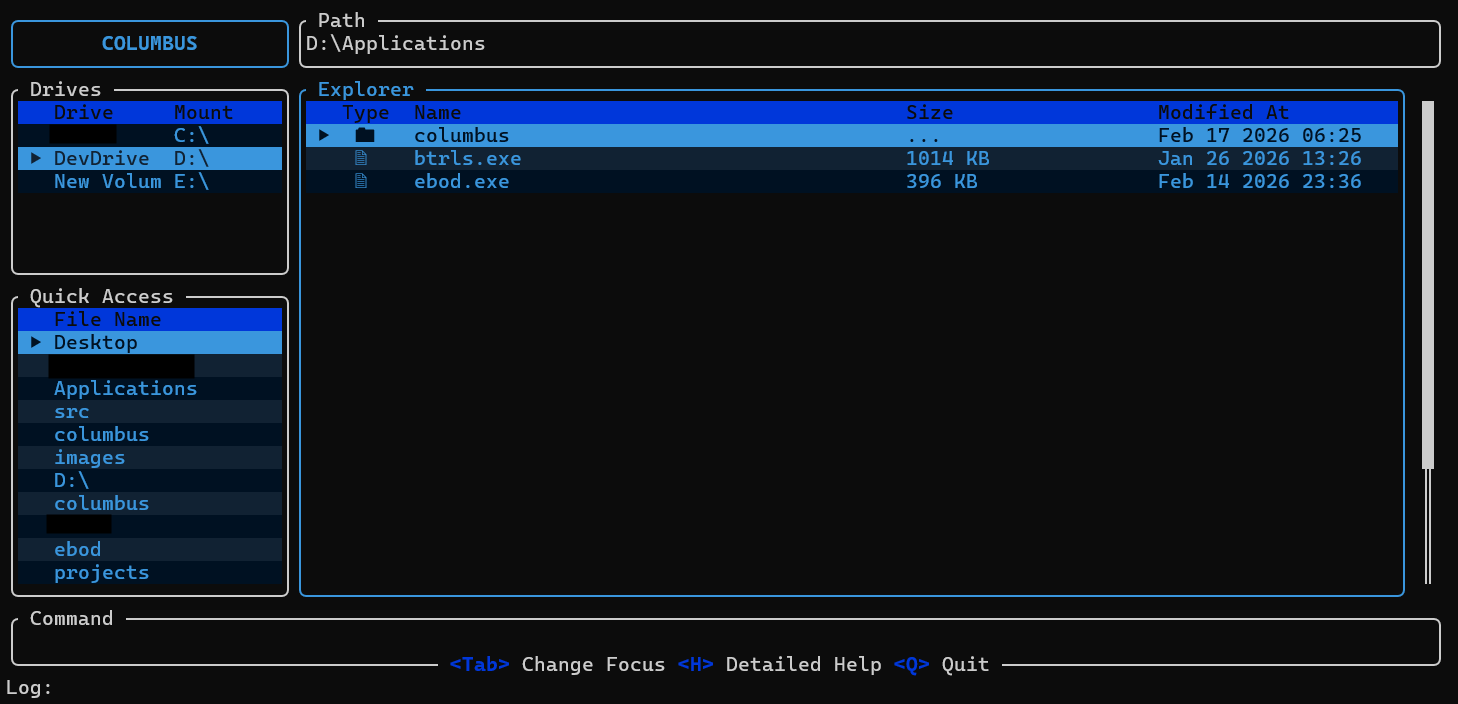
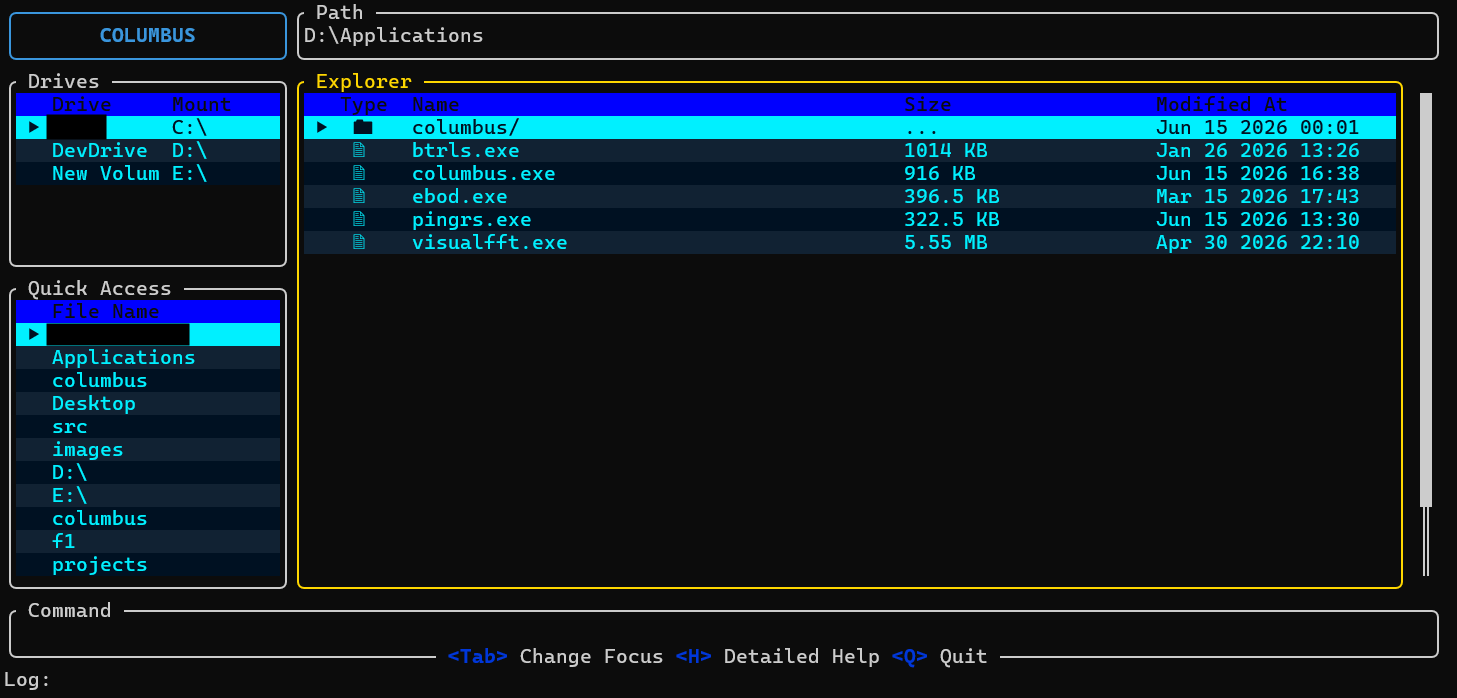
Finished color theme implementation and updated README.md

Changed region(s): [[0.0, 0.0, 0.9883, 0.9026], [0.0, 0.9327, 0.9883, 0.9928]]

diff --git a/src/color_theme.rs b/src/color_theme.rs
@@ -9,6 +9,8 @@ pub struct ColorTheme {
     pub header: Color,
     pub border: Color,
     pub selector: Color,
+    pub explorer_bg_1: Color,
+    pub explorer_bg_2: Color,
 }
 
 #[derive(Debug, Deserialize, Clone)]
@@ -17,6 +19,8 @@ struct ThemeConfig {
     pub header: String,
     pub border: String,
     pub selector: String,
+    pub explorer_bg_1: String,
+    pub explorer_bg_2: String,
 }
 
 fn read_color_theme(config_path: Option<PathBuf>) -> ThemeConfig {
@@ -54,6 +58,8 @@ fn read_color_theme(config_path: Option<PathBuf>) -> ThemeConfig {
         header: String::from("#0000ff"),
         border: String::from("#ffd700"),
         selector: String::from("#00f0ff"),
+        explorer_bg_1: String::from("#001122"),
+        explorer_bg_2: String::from("#112233"),
     }
 }
 
@@ -64,5 +70,7 @@ pub fn get_color_theme(config_path: Option<PathBuf>) -> ColorTheme {
         header: read_theme.header.parse().unwrap_or(Color::Blue),
         border: read_theme.border.parse().unwrap_or(Color::Yellow),
         selector: read_theme.selector.parse().unwrap_or(Color::Cyan),
+        explorer_bg_1: read_theme.explorer_bg_1.parse().unwrap_or(Color::from_u32(0x00001122)),
+        explorer_bg_2: read_theme.explorer_bg_2.parse().unwrap_or(Color::from_u32(0x00112233)),
     }
 }

diff --git a/src/drives.rs b/src/drives.rs
@@ -105,8 +105,8 @@ impl Drives {
             .height(1);
         let rows = self.drives.iter().enumerate().map(|(i, data)| {
             let color = match i % 2 {
-                0 => Color::from_u32(0x00001122),
-                _ => Color::from_u32(0x00112233),
+                0 => self.color_theme.explorer_bg_1,
+                _ => self.color_theme.explorer_bg_2,
             };
             let item = data.ref_array();
             item.into_iter()

diff --git a/src/explorer.rs b/src/explorer.rs
@@ -154,8 +154,8 @@ impl Explorer {
             .height(1);
         let rows = self.files.iter().enumerate().map(|(i, data)| {
             let color = match i % 2 {
-                0 => Color::from_u32(0x00001122),
-                _ => Color::from_u32(0x00112233),
+                0 => self.color_theme.explorer_bg_1,
+                _ => self.color_theme.explorer_bg_2,
             };
             let item = data.ref_array();
             item.into_iter()

diff --git a/src/quick_access.rs b/src/quick_access.rs
@@ -105,8 +105,8 @@ impl QuickAccess {
             .height(1);
         let rows = self.entries.iter().enumerate().map(|(i, data)| {
             let color = match i % 2 {
-                0 => Color::from_u32(0x00001122),
-                _ => Color::from_u32(0x00112233),
+                0 => self.color_theme.explorer_bg_1,
+                _ => self.color_theme.explorer_bg_2,
             };
             let item = data.ref_array();
             item.into_iter()

diff --git a/README.md b/README.md
@@ -32,7 +32,7 @@ cargo install columbus
 ```
 
 ### From AUR
-`columbus` is available in [AUR](https://aur.archlinux.org/packages/columbus) from version `v0.1.1`. You can install `columbus` from `AUR` through `yay` or any package manager that installs from the `AUR`.
+`columbus` is available in [AUR](https://aur.archlinux.org/packages/columbus). You can install `columbus` from `AUR` through `yay` or any package manager that installs from the `AUR`.
 ```bash
 yay -S columbus
 ```
@@ -60,6 +60,8 @@ columbus [OPTIONS] [<PATH>]
 ### Options
 
 * `-a` or `--include-hidden` -> To display the hidden files also in explorer
+* `-c` or `--config` -> Custom path to `file_options.toml`
+* `-C` or `--color-theme` -> Custom path to `color_theme.toml`
 
 ## Keybindings
 
@@ -161,13 +163,15 @@ The `log` field is present in the bottom of the screen. This is to log any error
 
 ## Configuration files
 
+### `file_options.toml` file structure
+
 `columbus` depends on `file_options.toml` configuration file for opening files. Hence absence of `file_options.toml` means you cannot open any file through `columbus`.
 
 `file_options.toml` is searched for in `D:\Applications\columbus\file_options.toml` location in **Windows**.
 
 In **Linux**, `columbus` looks for the file in `~/.config/columbus/file_options.toml`
 
-### `file_options.toml` file structure
+To have `color_theme.toml` at a custom path, use the `-C` or `--color-theme` option with the path to the file while opening `columbus`.
 
 The configuration file is in the structure:
 ```toml
@@ -211,11 +215,31 @@ The file opening mechanism is totally based on the commands provided by the user
 
 **NOTE:** DO NOT open other TUI applications from `columbus`. For such applications, please create a seperate terminal window.
 
+### `color_theme.toml` file structure
+
+The `color_theme.toml` file is used to customize the color theme of `columbus`. The file structure is:
+```toml
+primary = "#00f0ff"
+header = "#0000ff"
+border = "#ffd700"
+selector = "#00f0ff"
+explorer_bg_1 = "#001122"
+explorer_bg_2 = "#112233"
+```
+Each key takes a color code (hex values). Enclose the Hex color code in string quotes. Don't forget to add # in the color codes.
+
+The `color_theme.toml` file should be located in 
+- `~/.config/columbus/color_theme.toml` location in **Linux** Distros
+- `D:\Applications\columbus\color_theme.toml` location in **Windows** Systems.
+
+To have `color_theme.toml` at a custom path, use the `-C` or `--color-theme` option with the path to the file while opening `columbus`.
+
 ## Future Enhancements
 
 - [ ] Add Mouse Events to widgets
 - [ ] Add all types of file extensions for open on enter in explorer
 - [ ] Enable opening of TUI apps from columbus in the same terminal
+- [x] Add Color Theme Customization
 
 ---
 